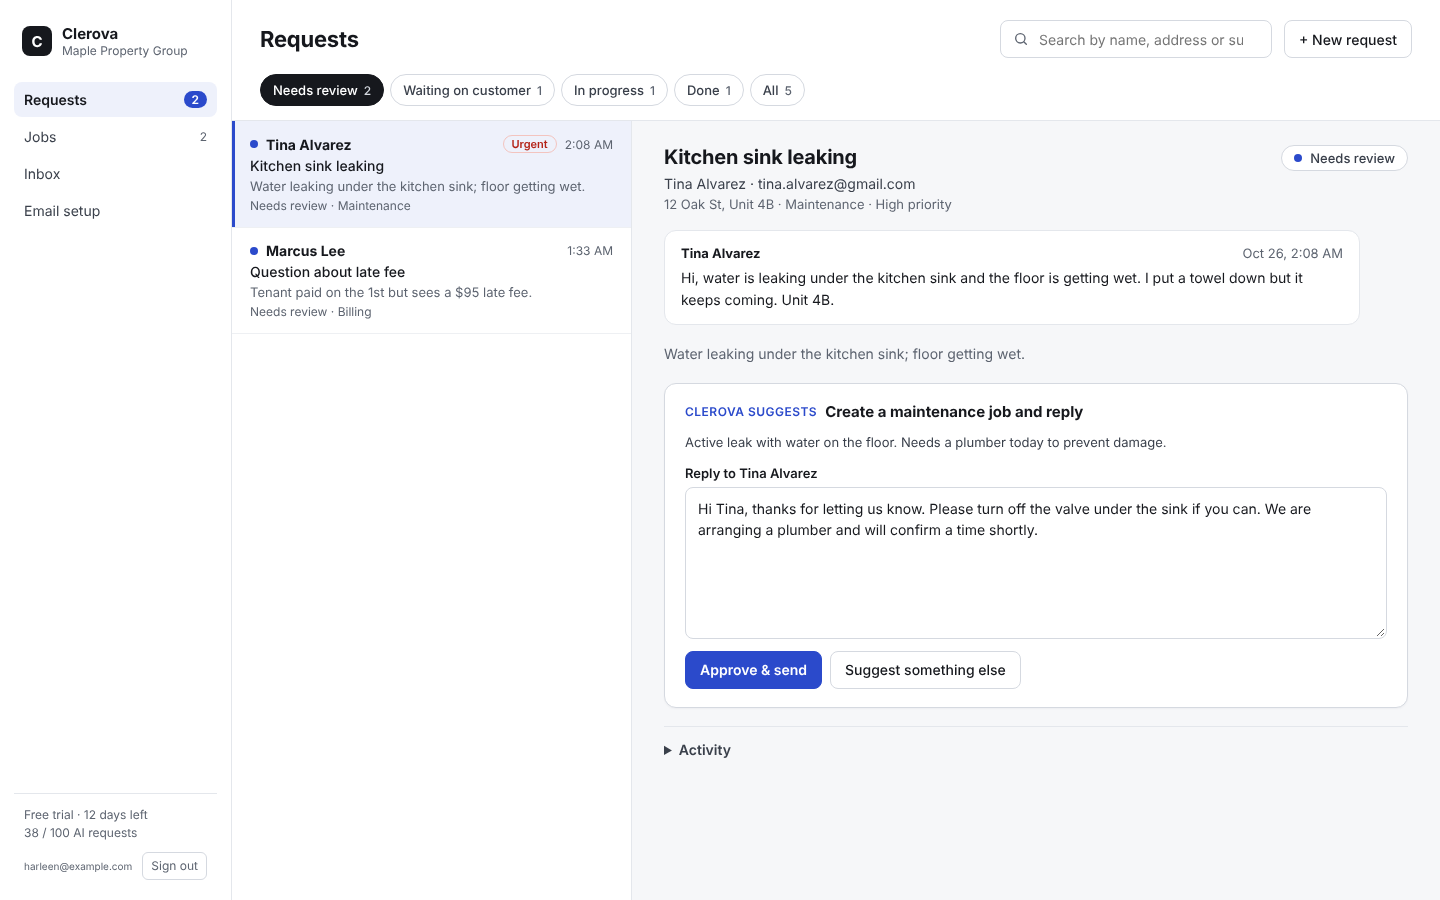
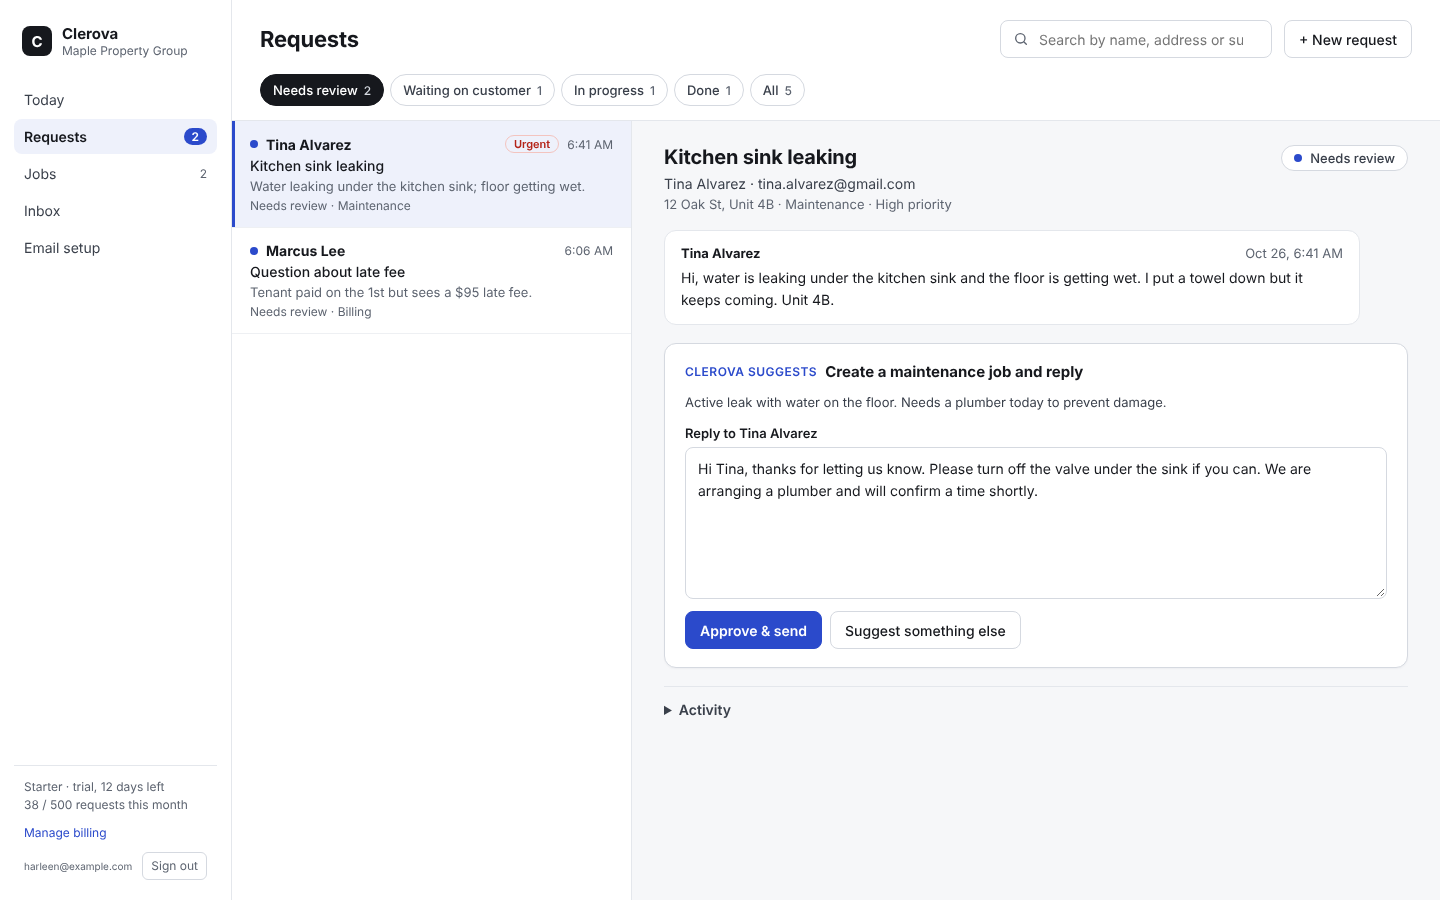
Refresh README screenshots and docs for the current flow
Retake the Today, Requests, Jobs and Email setup screenshots so they show
the Today link and the plan usage footer. Describe the website hand-off
and get-started checklist, add a sign-ups query, and drop an unused
landing screenshot.

diff --git a/README.md b/README.md
@@ -17,15 +17,18 @@ Property management is the live focus.
 
 ## How It Works
 
-1. **Sign up** at app.clerova-ai.com and confirm your email.
-2. **Set up your workspace:** company name, industry, size and how you heard
-   about Clerova.
+1. **Sign up** from the website or at app.clerova-ai.com and confirm your
+   email. The website's buttons carry the email you typed and the plan you
+   picked, so sign-up is filled in for you.
+2. **Set up your workspace:** your name, company name, units managed and how
+   you heard about Clerova.
 3. **Choose a plan and add a card.** The first 14 days are free. Nothing is
    charged until the trial ends, and cancelling before then costs nothing.
 4. **Forward your email** to your Clerova address (shown on the Email Setup
    page), for example `maple-property-k3j9x2@in.clerova-ai.com`. You can
    forward everything or set a filter. You can also type or paste a request
-   with **New request**.
+   with **New request**. A get-started checklist on the Today page walks
+   through this and sends a test email for you.
 5. **Clerova organizes it.** Each new request gets an address, category,
    priority and summary, a recommended next step with its reasoning, and a
    drafted reply.
@@ -83,6 +86,8 @@ Email forwarded              Request typed in the app
 - Inbox view of every received email with its status, and a retry for
   failed ones
 - Open sign-up with Supabase Auth, onboarding and a free trial
+- Get-started checklist for new workspaces: copy the address, forward,
+  send a test email, approve the first reply
 - Multi-tenant organizations: each organization only sees its own data
 - Stripe billing: card up front, 14-day free trial, founding prices,
   self-service billing portal
@@ -139,7 +144,7 @@ terms, so the reviewer adds them before sending.
 +------------------------------+
 
 Hosting: Render (frontend and backend), Supabase (database and auth),
-Postmark (email), Cloudflare (DNS)
+Postmark (email), Stripe (billing), Cloudflare (DNS)
 ```
 
 ### Tech Stack
@@ -486,8 +491,19 @@ set plan = 'STARTER', ai_monthly_limit = 1000, trial_ends_at = null
 where name = 'Acme Property Group';
 ```
 
+Every workspace, newest first, with its owner and billing status (an empty
+status means no card yet):
+
+```sql
+select o.created_at, o.name as company, u.email, o.referral_source,
+       o.plan, o.billing_interval, o.subscription_status, o.founding_customer
+from organizations o
+join app_users u on u.organization_id = o.id
+order by o.created_at desc;
+```
+
 Where sign-ups come from (links can carry `?utm_source=instagram` or
-`?ref=...`):
+`?ref=...`; the website passes it on to the app):
 
 ```sql
 select industry, company_size, referral_source, count(*)
@@ -508,6 +524,7 @@ Management` organization.
 cd backend && ./mvnw test        # H2 in PostgreSQL mode, runs the Flyway migrations
 cd frontend && npm run build     # type-check and production build
 cd frontend && npm run lint
+cd website && npm run build && npm run lint
 ```
 
 AI evaluation tests are kept separate so normal builds don't make live model
